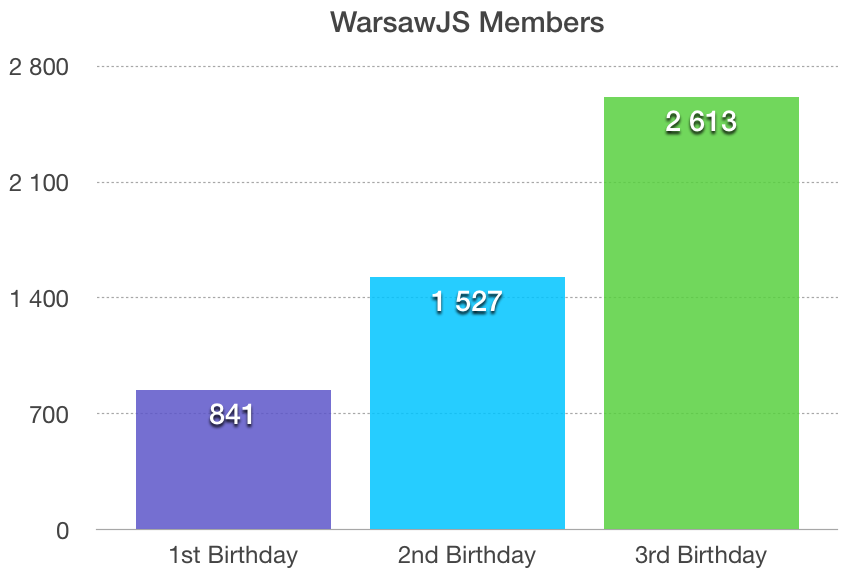
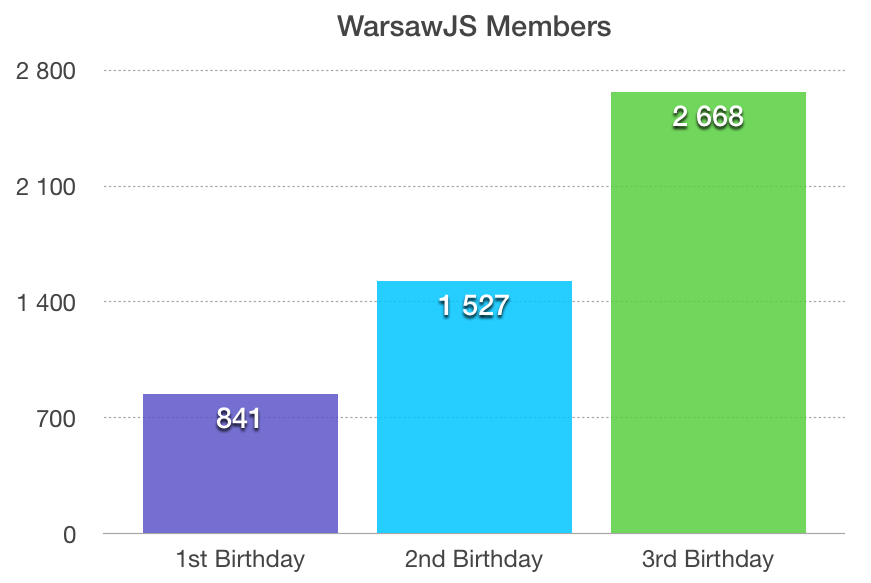
meetup members update

diff --git a/index.html b/index.html
@@ -125,6 +125,7 @@
             <li>make it in a progressive way, fast and modern</li>
             <li>support for modern browsers and IE11</li>
             <li>we should be able to move components between projects easily</li>
+            <li>frontend focuses on the view and writting layouts</li>
         </ul>
     </section>
 
@@ -282,11 +283,6 @@
     </section>
 
     <section class="slide">
-        <h2>The risk is great</h2>
-        <a href="https://www.youtube.com/watch?v=QFZAwz3rnBg">The decision, of course, is yours.</a>
-    </section>
-
-    <section class="slide">
         <h2>Other solutions</h2>
         <ul>
             <!-- they are all on MIT licence -->
@@ -405,6 +401,11 @@
     </section>
 
     <section class="slide">
+        <h2>The risk is great</h2>
+        <a href="https://www.youtube.com/watch?v=QFZAwz3rnBg">The decision, of course, is yours.</a>
+    </section>
+
+    <section class="slide">
         <h2>Sources</h2>
         <ul>
             <li><a href="https://github.com/facebookincubator/create-react-app">Create React App</a></li>
@@ -414,6 +415,7 @@
             <li><a href="https://egghead.io/courses/build-your-first-production-quality-react-app">Build Your First Production Quality React App</a></li>
             <li><a href="https://www.udemy.com/react-redux/">Modern React with Redux</a></li>
             <li><a href="https://www.youtube.com/watch?v=xsSnOQynTHs">Dan Abramov - Live React: Hot Reloading with Time Travel</a></li>
+            <li><a href="https://neutrino.js.org/">Neutrino</a></li>
         </ul>
     </section>
 
@@ -442,7 +444,7 @@
     <section class="slide" alt='stats slide'>
         <div>
             <h2>Meetup</h2>
-            <p>Members: 2613 (+ 1 086 last year)</p>
+            <p>Members: 2668 (+ 1 141 last year)</p>
             <img style="width: 30rem" src="pictures/meetup_members.png" />
         </div>
     </section>
